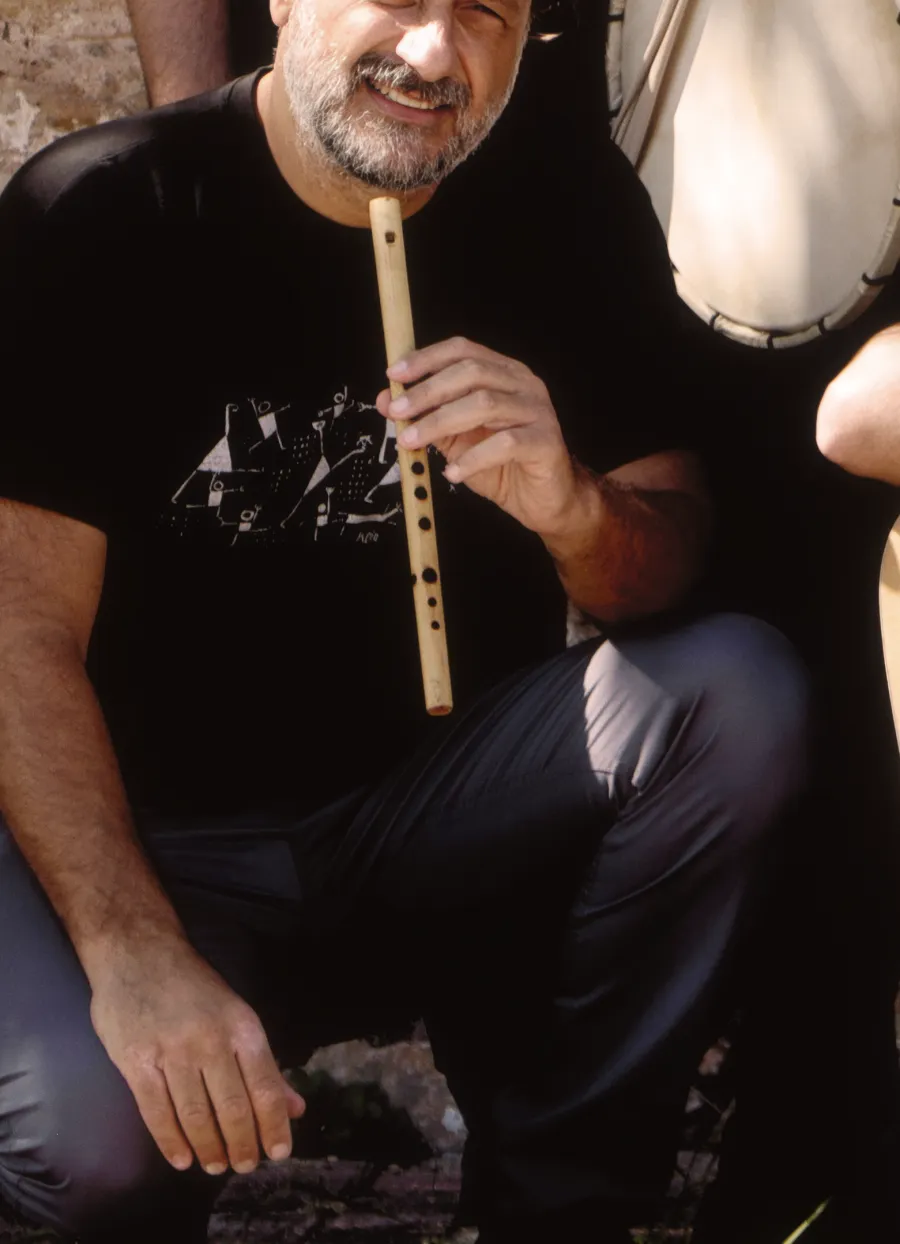
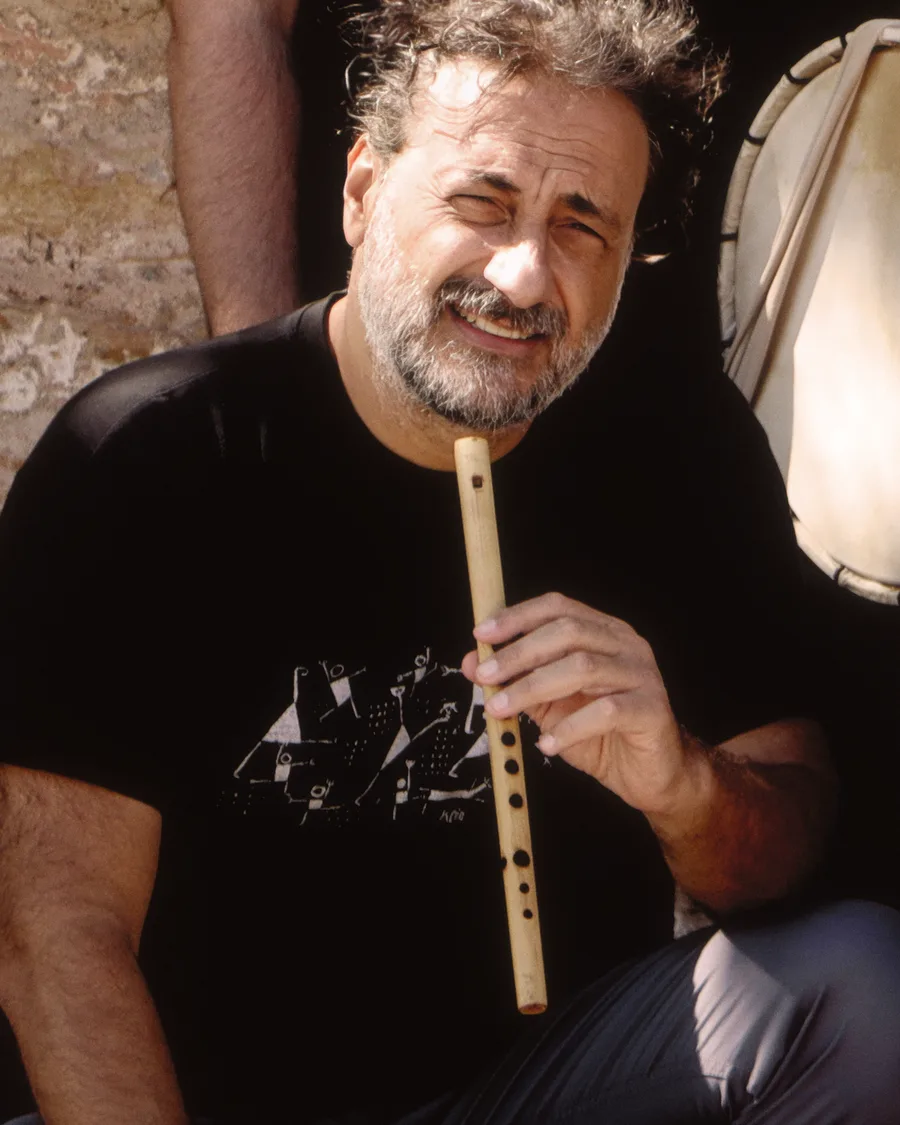
Tighten Nikos Katritzidakis portrait and professionalize copy.
Correct the surname, recrop his card from the group photo as a head-and-shoulders portrait, drop the notes about Nikos Kafetzis missing from the picture, and keep member cards to name and instruments.

diff --git a/src/data/content.ts b/src/data/content.ts
@@ -13,64 +13,38 @@ export type Member = {
   initials?: string;
   role: { el: string; en: string };
   name: { el: string; en: string };
-  note?: { el: string; en: string };
-  bio: { el: string; en: string };
 };
 
 export const members: Member[] = [
-  {
-    id: 'percussion',
-    image: '/images/band/members/defi.webp',
-    role: { el: 'Κρουστά — μπεντίρ, νταουλάκι', en: 'Percussion — bendir, daoulaki' },
-    name: { el: 'Ιάκωβος Μολυμπάκης', en: 'Iakovos Molybakis' },
-    bio: {
-      el: 'Κρατά τον κοινό ρυθμό στο μπεντίρ, στο νταουλάκι και σε άλλα κρουστά — το έδαφος όπου συναντιούνται τα όργανα.',
-      en: 'Keeps the shared pulse on bendir, daoulaki and other percussion — the ground where the instruments meet.',
-    },
-  },
   {
     id: 'lyra',
     image: '/images/band/members/laouto-flute.webp',
     role: { el: 'Κρητική λύρα', en: 'Cretan lyra' },
     name: { el: 'Μανώλης Μολυμπάκης (Μολυμπής)', en: 'Manolis Molybakis (Molybis)' },
-    bio: {
-      el: 'Η λύρα είναι η κύρια φωνή του στο σχήμα. Όπως και οι υπόλοιποι, κινείται και σε άλλα όργανα όταν το ζητά η σύνθεση.',
-      en: 'The lyra is his main voice in the group. Like the others, he turns to more instruments when the piece asks for them.',
-    },
+  },
+  {
+    id: 'laouto',
+    image: '/images/band/members/laouto.webp',
+    role: { el: 'Κρητικό και στεριανό λαούτο, ούτι', en: 'Cretan and mainland laouto, oud' },
+    name: { el: 'Αβραάμ Αβραμίδης', en: 'Avraam Avramidis' },
   },
   {
     id: 'winds',
     image: '/images/band/members/flute.webp',
     role: { el: 'Φλάουτο άλτο, πνευστά, μπαντουράκια', en: 'Alto flute, winds, mandourakia' },
-    name: { el: 'Νίκος Κατειτζιδάκης', en: 'Nikos Kateitzidakis' },
-    bio: {
-      el: 'Οδηγεί τη μελωδική γραμμή στο φλάουτο άλτο, και δίπλα του διάφορα πνευστά και μπαντουράκια.',
-      en: 'Carries the melodic line on alto flute, and beside it other winds and mandourakia.',
-    },
+    name: { el: 'Νίκος Κατριτζιδάκης', en: 'Nikos Katritzidakis' },
   },
   {
-    id: 'laouto',
-    image: '/images/band/members/laouto.webp',
-    role: { el: 'Κρητικό / στεριανό λαούτο, ούτι', en: 'Cretan / mainland laouto, oud' },
-    name: { el: 'Αβραάμ Αβραμίδης', en: 'Avraam Avramidis' },
-    bio: {
-      el: 'Στηρίζει τον ήχο με το λαούτο — κρητικό και στεριανό — και με το ούτι, στη συνοδεία του σχήματος.',
-      en: 'Supports the sound on laouto — Cretan and mainland — and on the oud, in the group’s accompaniment.',
-    },
+    id: 'percussion',
+    image: '/images/band/members/defi.webp',
+    role: { el: 'Κρουστά — μπεντίρ, νταουλάκι', en: 'Percussion — bendir, daoulaki' },
+    name: { el: 'Ιάκωβος Μολυμπάκης', en: 'Iakovos Molybakis' },
   },
   {
     id: 'bass',
     initials: 'ΝΚ',
     role: { el: 'Κοντραμπάσο', en: 'Double bass' },
     name: { el: 'Νίκος Καφετζής', en: 'Nikos Kafetzis' },
-    note: {
-      el: 'Λείπει από αυτή τη φωτογραφία.',
-      en: 'Not in this portrait.',
-    },
-    bio: {
-      el: 'Στο σχήμα με το κοντραμπάσο. Δεν είναι στην ομαδική φωτογραφία, είναι όμως μέρος της Εσμιγιάς.',
-      en: 'In the group on double bass. He is not in the portrait, but he is part of Esmiya.',
-    },
   },
 ];
 
@@ -81,7 +55,7 @@ export const dictionary = {
     skip: 'Μετάβαση στο περιεχόμενο',
     title: 'Εσμιγιά — Κρητική μουσική',
     description:
-      'Η Εσμιγιά: συνύπαρξη, συνεύρεση και νέες συνθέσεις που ανθολογούν την κρητική μουσική παράδοση.',
+      'Η Εσμιγιά: νέες συνθέσεις που ανθολογούν την κρητική μουσική παράδοση.',
     menu: 'Μενού',
     nav: [
       { href: '#about', label: 'Η Εσμιγιά' },
@@ -93,33 +67,29 @@ export const dictionary = {
     heroKicker: 'Κρητική μουσική',
     heroTitle: 'Εσμιγιά',
     heroLatin: 'Esmiya',
-    heroLead:
-      'Συνύπαρξη, συνεύρεση και νέες συνθέσεις, αντλώντας από την κρητική μουσική παράδοση.',
+    heroLead: 'Νέες συνθέσεις που ανθολογούν την κρητική μουσική παράδοση.',
     instruments: 'Λύρα · Λαούτο · Φλάουτο · Κρουστά · Κοντραμπάσο',
     ctaAbout: 'Η ιστορία',
     ctaMusic: 'Μουσική',
-    portraitAlt:
-      'Η Εσμιγιά: τέσσερις μουσικοί με λύρα, λαούτο, φλάουτο και κρουστά, μπροστά σε πέτρινο τοίχο. Στο σχήμα είναι και ο Νίκος Καφετζής στο κοντραμπάσο.',
+    portraitAlt: 'Η Εσμιγιά: μουσικοί με λύρα, λαούτο, φλάουτο και κρουστά, μπροστά σε πέτρινο τοίχο.',
     aboutKicker: 'Το όνομα',
     aboutTitle: 'Η Εσμιγιά',
     aboutQuote:
       'Η «Εσμιγιά» νοηματοδοτεί συμβολικά τη συνύπαρξη, την ανάγκη των ανθρώπων για συνεύρεση, την επικοινωνία και το σημείο συνάντησης στη δημιουργία ενός νέου μουσικού σχήματος. Με σκοπό τη ψυχαγωγία, πειραματίζονται, στο συγκερασμό των ηχοχρωμάτων, σε νέες συνθέσεις, ανθολογώντας την Κρητική μουσική παράδοση.',
     aboutSupport:
-      'Πέντε μουσικοί συναντιούνται γύρω από λύρα, λαούτο και ούτι, φλάουτο και πνευστά, κρουστά και κοντραμπάσο. Τέσσερις είναι στη φωτογραφία· ο καθένας έχει κύριο όργανο, και παίζει κι άλλα.',
+      'Πέντε μουσικοί. Λύρα, λαούτο και ούτι, φλάουτο και πνευστά, κρουστά και κοντραμπάσο. Ο καθένας έχει κύριο όργανο και παίζει κι άλλα.',
     musicKicker: 'Ακούστε',
     musicTitle: 'Μουσική',
-    musicLead:
-      'Οι ηχογραφήσεις και τα βίντεο θα συγκεντρωθούν εδώ, μόλις είναι έτοιμα για κοινή ακρόαση.',
+    musicLead: 'Ηχογραφήσεις και βίντεο θα αναρτηθούν εδώ.',
     recordingsLabel: 'Ηχογραφήσεις',
     videosLabel: 'Βίντεο',
     soon: 'Σύντομα',
     mediaKicker: 'Φωτογραφία',
     mediaTitle: 'Εικόνα',
-    mediaCaption: 'Η Εσμιγιά. Από τη φωτογραφία λείπει ο Νίκος Καφετζής (κοντραμπάσο).',
+    mediaCaption: 'Η Εσμιγιά.',
     membersKicker: 'Οι μουσικοί',
     membersTitle: 'Σύνθεση',
-    membersLead:
-      'Τέσσερις στη φωτογραφία, πέντε στο σχήμα. Ένα κύριο όργανο ο καθένας — και δίπλα του κι άλλα.',
+    membersLead: 'Πέντε μουσικοί. Κύριο όργανο ο καθένας, και δίπλα του κι άλλα.',
     contactKicker: 'Γράψτε μας',
     contactTitle: 'Επικοινωνία',
     contactLead: 'Για εμφανίσεις και συνεργασίες.',
@@ -135,8 +105,7 @@ export const dictionary = {
     localeName: 'English',
     skip: 'Skip to content',
     title: 'Esmiya — Cretan music',
-    description:
-      'Esmiya is a meeting place: new compositions that gather the Cretan musical tradition.',
+    description: 'Esmiya: new compositions that gather the Cretan musical tradition.',
     menu: 'Menu',
     nav: [
       { href: '#about', label: 'The band' },
@@ -148,33 +117,30 @@ export const dictionary = {
     heroKicker: 'Cretan music',
     heroTitle: 'Εσμιγιά',
     heroLatin: 'Esmiya',
-    heroLead:
-      'Coexistence, gathering, and new compositions drawn from the Cretan musical tradition.',
+    heroLead: 'New compositions drawn from the Cretan musical tradition.',
     instruments: 'Lyra · Laouto · Flute · Percussion · Double bass',
     ctaAbout: 'The story',
     ctaMusic: 'Music',
-    portraitAlt:
-      'Esmiya: four musicians with lyra, laouto, flute and percussion, in front of a stone wall. Nikos Kafetzis, on double bass, is also in the group.',
+    portraitAlt: 'Esmiya: musicians with lyra, laouto, flute and percussion, in front of a stone wall.',
     aboutKicker: 'The name',
     aboutTitle: 'Esmiya',
     aboutQuote:
-      '“Esmiya” gives symbolic meaning to coexistence, to people’s need to come together, to communication, and to the meeting point where a new musical group is made. Meaning to give pleasure, they experiment in the blending of timbres, in new compositions, anthologizing the Cretan musical tradition.',
+      '“Esmiya” stands for coexistence, for the need to come together, for communication, and for the meeting point from which a new ensemble is born. They experiment in the blending of timbres and in new compositions, anthologizing the Cretan musical tradition.',
     aboutSupport:
-      'Five musicians meet around lyra, laouto and oud, flute and winds, percussion and double bass. Four are in the portrait; each has a main instrument, and plays more besides.',
+      'Five musicians. Lyra, laouto and oud, flute and winds, percussion and double bass. Each has a main instrument, and plays others as well.',
     musicKicker: 'Listen',
     musicTitle: 'Music',
-    musicLead: 'Recordings and videos will gather here once they are ready to be shared.',
+    musicLead: 'Recordings and videos will appear here.',
     recordingsLabel: 'Recordings',
     videosLabel: 'Video',
     soon: 'Soon',
     mediaKicker: 'Photograph',
     mediaTitle: 'Portrait',
-    mediaCaption: 'Esmiya. Nikos Kafetzis (double bass) is not in this portrait.',
+    mediaCaption: 'Esmiya.',
     membersKicker: 'The musicians',
-    membersTitle: 'The group',
-    membersLead:
-      'Four in the portrait, five in the group. A main instrument each — and more beside it.',
-    contactKicker: 'Write to us',
+    membersTitle: 'Line-up',
+    membersLead: 'Five musicians. A main instrument each, and others besides.',
+    contactKicker: 'Contact',
     contactTitle: 'Contact',
     contactLead: 'For performances and collaborations.',
     email: 'info@esmiya.gr',

diff --git a/src/styles/global.css b/src/styles/global.css
@@ -374,7 +374,7 @@ a {
   width: 100%;
   height: 100%;
   object-fit: cover;
-  object-position: center 18%;
+  object-position: center 12%;
 }
 
 .member-photo-empty {
@@ -403,21 +403,8 @@ a {
   font-size: 0.92rem;
 }
 
-.member-note {
-  margin: 0.4rem 0 0;
-  color: var(--muted);
-  font-style: italic;
-  font-size: 0.9rem;
-}
-
 .member-copy {
   padding: 1rem 1rem 1.15rem;
-}
-
-.member-card p:last-child {
-  margin: 0.7rem 0 0;
-  color: var(--ink-soft);
-  font-size: 0.98rem;
 }
 
 .email {
